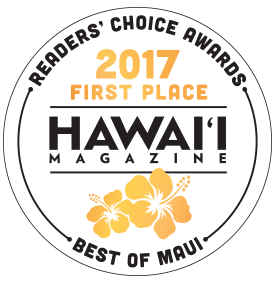
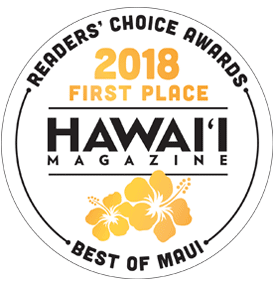
Hawaii Mag 2018 Awards

Changed region(s): [[0.0, 0.0, 1.0, 0.979]]

diff --git a/hana/index.php b/hana/index.php
@@ -56,7 +56,7 @@ j=d.createElement(s),dl=l!='dataLayer'?'&l='+l:'';j.async=true;j.src=
   <section class="intro pad clearfix">
       <div class="col span_6_of_9">
           <h1>TRAVAASA HANA: MAUI'S LAST TRULY HAWAIIAN PLACE</h1>
-          <p>Long considered one of the most remarkable resorts in Hawaii, Travaasa Hana, Maui (formerly known as Hotel Hana Maui) is now even better. In fact, it was voted the "No. <span style="font-family:helvetica neue, helvetica, arial, sans-serif;">1</span> Hotel/Resort for a Romantic Getaway" <em>and</em> the "No. <span style="font-family:helvetica neue, helvetica, arial, sans-serif;">1</span> Boutique Hotel" in the <em>HAWAI'I Magazine</em> 2016 Readers’ Choice Awards, as well as the "No. <span style="font-family:helvetica neue, helvetica, arial, sans-serif;">3</span> Resort in Hawaii" in <em>Condé Nast Traveler</em>'s 2015 Reader's Choice Awards.<br><br>Located in the town of Hana on the eastern tip of Maui, Travaasa is the first resort on the island to greet the rising sun. Set amid rolling grass fields and palm trees above Hana Bay, Travaasa will immerse you in the real Hawaii.</p>
+          <p>Long considered one of the most remarkable resorts in Hawaii, Travaasa Hana, Maui (formerly known as Hotel Hana Maui) is now even better. In fact, it was voted the "No. <span style="font-family:helvetica neue, helvetica, arial, sans-serif;">1</span> Boutique Hotel" <em>and</em> the "No. <span style="font-family:helvetica neue, helvetica, arial, sans-serif;">1</span> Experiential Retreat" in the <em>HAWAI'I Magazine</em> 2018 Readers’ Choice Awards, as well as the "No. <span style="font-family:helvetica neue, helvetica, arial, sans-serif;">8</span> Resort in Hawaii" in <em>Condé Nast Traveler</em>'s 2017 Reader's Choice Awards.<br><br>Located in the town of Hana on the eastern tip of Maui, Travaasa is the first resort on the island to greet the rising sun. Set amid rolling grass fields and palm trees above Hana Bay, Travaasa will immerse you in the real Hawaii.</p>
           <a data-fancybox href="https://www.youtube.com/watch?v=wcwKeO48b5Y&amp;autoplay=1&amp;rel=0&amp;controls=0&amp;showinfo=0"><img class="videobox" style="float:left;!important" width="350" src="https://ssl-travaasa.scdn4.secure.raxcdn.com/assets/images/play-button-600px-hana4.jpg"></a>
           <a href="https://www.tripadvisor.com/Hotel_Review-g60630-d120706-Reviews-Travaasa_Hotel_Hana-Hana_Maui_Hawaii.html" target="_blank"><img style="float:left; padding: 5px 0 0 0;" width="172" height="126" src="https://ssl-travaasa.scdn4.secure.raxcdn.com/assets/images/hana-tripadvisor_172x126.png"></a>
           <!--<div style="float:left; padding: 0 0 0 10px;" id="TA_certificateOfExcellence565" class="TA_certificateOfExcellence">

diff --git a/hana/hanaschedule/index_backup.php b/hana/hanaschedule/index_backup.php
@@ -17,23 +17,6 @@
 	<?php
    include_once($path."/Library/Travaasa_Head.php");
 	?>
-  <style>
-.responsive-iframe-container {
-    position: relative;
-    padding-bottom: 56.25%;
-    padding-top: 30px;
-    height: 900px;
-    overflow: hidden;
-}
-.responsive-iframe-container iframe,   
-.vresponsive-iframe-container object,  
-.vresponsive-iframe-container embed {
-    position: absolute;
-    top: 0;
-    left: 0;
-    width: 100%;
-    height: 900px;
-}</style>
 <!-- start NAVIS Code -->
 <script type="text/javascript" src="http://www.navistechnologies.info/JavascriptPhoneNumber/js.aspx?account=15070&amp;jspass=ivcsp4gaxk4fbz8banxd&amp;dflt=<?php echo NAVIS_GLOBAL_HANA ?>"></script>
 <script type="text/javascript">ProcessNavisNCKeyword();</script>
@@ -111,10 +94,9 @@ j=d.createElement(s),dl=l!='dataLayer'?'&l='+l:'';j.async=true;j.src=
           <!-- END OLARK TAB -->
   </section>
   <section class="grey pad group">
-  	<!--<p><iframe id="forecast_embed" type="text/html" display="inline" frameborder="0" height="245" width="100%" src="http://forecast.io/embed/#lat=20.7553&lon=-155.9879&name=Travaasa Hana, Maui&color=#D7385E&font=Helvetica&units=us"> </iframe></p>-->
-    <p><script type='text/javascript' src='https://darksky.net/widget/default/20.757508,-155.988407/us12/en.js?width=100%&height=301&title=Weather for Hana, Maui&textColor=333333&bgColor=transparent&transparency=true&skyColor=333333&fontFamily=Trebuchet MS&customFont=&units=us&htColor=333333&ltColor=70cee2&displaySum=yes&displayHeader=yes'></script></p>
+  	<p><iframe id="forecast_embed" type="text/html" display="inline" frameborder="0" height="245" width="100%" src="http://forecast.io/embed/#lat=20.7553&lon=-155.9879&name=Travaasa Hana, Maui&color=#D7385E&font=Helvetica&units=us"> </iframe></p>
     <div class="responsive-iframe-container">
-    <iframe src="https://www.google.com/calendar/embed?showTitle=0&amp;showCalendars=0&amp;mode=AGENDA&amp;height=900&amp;wkst=1&amp;bgcolor=%23FFFFFF&amp;src=hanaactivities%40travaasa.com&amp;color=%23f05033&amp;ctz=Pacific%2FHonolulu" style="border:solid 7px #FFFFFF" width="100%" height="900" frameborder="0" scrolling="no"></iframe>
+    <iframe src="https://www.google.com/calendar/embed?showTitle=0&amp;showCalendars=0&amp;mode=AGENDA&amp;height=900&amp;wkst=1&amp;bgcolor=%23FFFFFF&amp;src=hanaactivities%40travaasa.com&amp;color=%23f05033&amp;ctz=Pacific%2FHonolulu" style=" border:solid 10px #FFFFFF " width="630" height="900" frameborder="0" scrolling="no"></iframe>
     </div>
   </section>
 </article>

diff --git a/hana/accomodations/index.php b/hana/accomodations/index.php
@@ -214,7 +214,8 @@ j=d.createElement(s),dl=l!='dataLayer'?'&l='+l:'';j.async=true;j.src=
       <section class="grey pad group">
     <h2>Hana Cooling System</h2>
     <p>In lieu of A/C, our Bungalows are equipped with interior ceiling fans and panoramic sliding doors, offering ample trade winds for cooling.</p>
-    <p><iframe id="forecast_embed" type="text/html" display="inline" frameborder="0" height="245" width="100%" src="https://forecast.io/embed/#lat=20.7553&lon=-155.9879&name=Travaasa Hana, Maui&color=#D7385E&font=Helvetica&units=us"> </iframe></p>
+    <!--<p><iframe id="forecast_embed" type="text/html" display="inline" frameborder="0" height="245" width="100%" src="https://forecast.io/embed/#lat=20.7553&lon=-155.9879&name=Travaasa Hana, Maui&color=#D7385E&font=Helvetica&units=us"> </iframe></p>-->
+    <p><script type='text/javascript' src='https://darksky.net/widget/default/20.757508,-155.988407/us12/en.js?width=100%&height=301&title=Weather for Hana, Maui&textColor=333333&bgColor=transparent&transparency=true&skyColor=333333&fontFamily=Trebuchet MS&customFont=&units=us&htColor=333333&ltColor=70cee2&displaySum=yes&displayHeader=yes'></script></p>
   </section>
 </article>
 </section>
